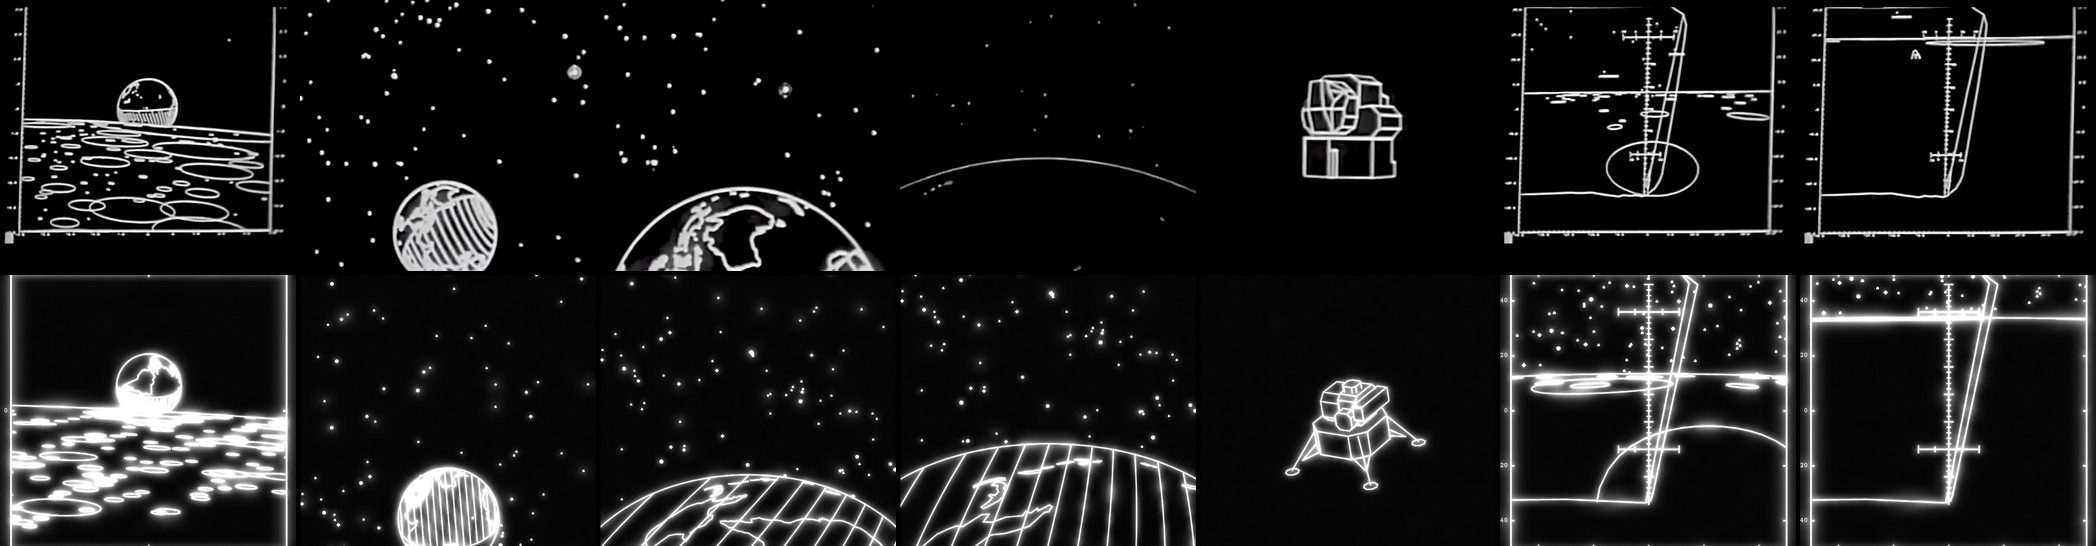
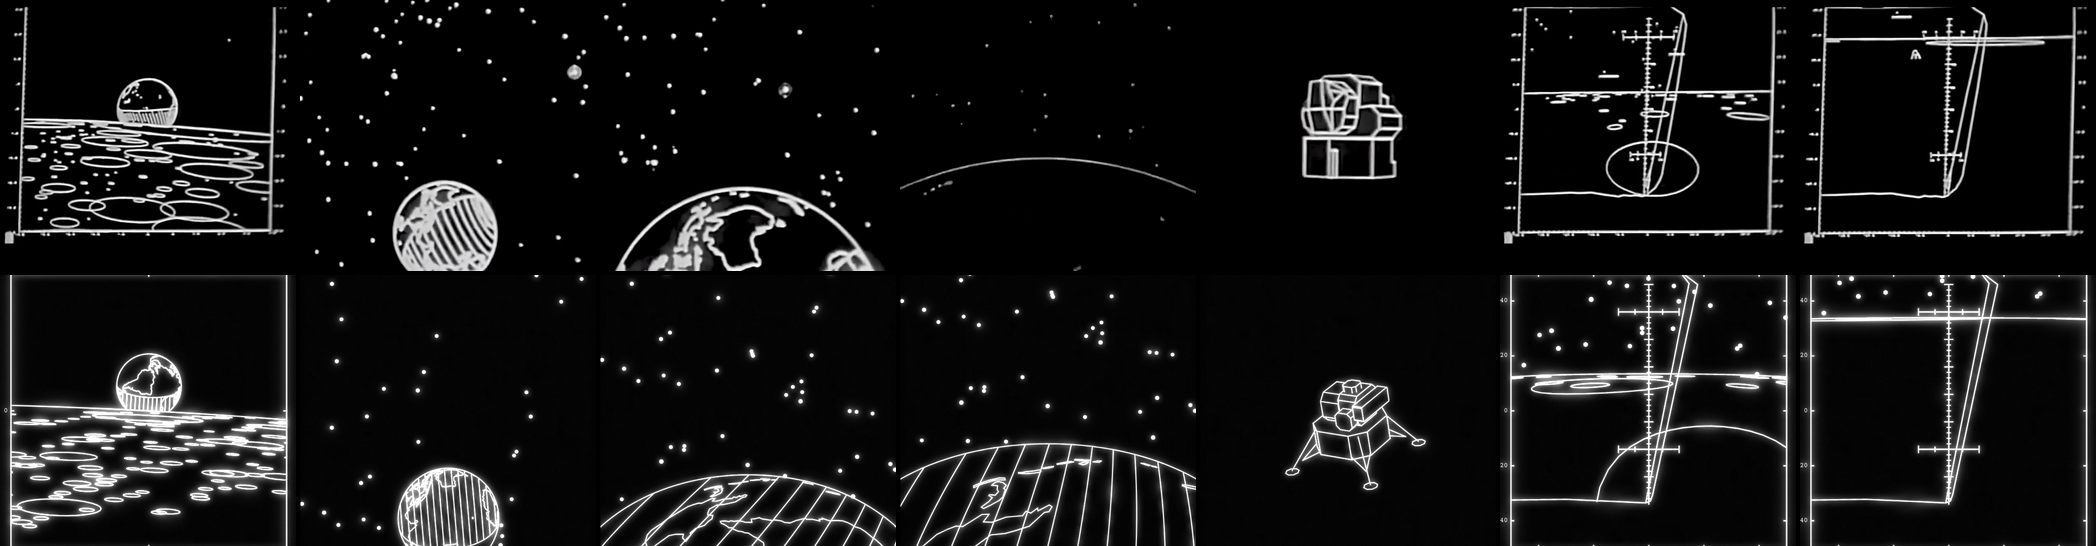
Star catalogs per TN D-6853, softer bloom, updated comparison sheet
TN D-6853 p.12: the more often used 391-star navigation catalog drew
stars as asterisks, with the 37 prime stars named; the 1078-star catalog
drew dots. The page now defaults to a 391-star catalog (C toggles the
full V 4.5 set as dots). Bloom is about 35% weaker, and the film
comparison sheet is regenerated.

diff --git a/web/page.template.html b/web/page.template.html
@@ -83,12 +83,13 @@ body.still { padding:0; }
     <button id="bhid">Hidden lines</button>
     <button id="bjit" title="J">Film jitter</button>
     <button id="bblm" title="B">Bloom</button>
+    <button id="bcat" title="C">Catalog</button>
     <button id="bsrc">Fortran listing</button>
   </div>
   <div class="grp"><span class="lbl">g.e.t.</span><input id="geti" type="text" size="9" value="0:00:00" aria-label="ground elapsed time h:mm:ss"><input id="scrub" type="range" min="-7200" max="7200" step="1" value="0"></div>
   <div class="grp"><span class="lbl">Jump (Live)</span><button id="jundock">Undocking 100:12:00</button><button id="jdesc">Descent 102:42:00</button></div>
 </div>
-<div id="hint">Drag: look around. Wheel / pinch: field of view. Arrows: yaw, pitch. Q/E: roll. +/-: field of view. Space: pause. [ ]: speed. R: reset. 1-5: scene. J: film jitter. B: bloom. Any input leaves Attract or Tour.</div>
+<div id="hint">Drag: look around. Wheel / pinch: field of view. Arrows: yaw, pitch. Q/E: roll. +/-: field of view. Space: pause. [ ]: speed. R: reset. 1-5: scene. J: film jitter. B: bloom. C: star catalog. Any input leaves Attract or Tour.</div>
 <div id="about">G. B. Roush, Computation and Analysis Division, MSC, is credited with developing the major analytical tool (MSC IN 69-FM-197). Sources: NASA TN D-6853 (Hyle and Lunde, 1972); MSC IN 69-FM-197.</div>
 <div id="err"></div>
 
@@ -295,13 +296,16 @@ const cv = document.getElementById("cv"), mctx = cv.getContext("2d");
 const mk = () => document.createElement("canvas");
 const off = mk(), bl1 = mk(), bl2 = mk(), ctx = off.getContext("2d"), b1c = bl1.getContext("2d"), b2c = bl2.getContext("2d");
 // Nostalgia toggles: null = automatic (on in Attract/Tour), true/false = the viewer's choice (remembered).
-const prefs = { jitter: null, bloom: null };
+const prefs = { jitter: null, bloom: null, catalog: "nav" };
+const NAV_MAG = Number("__NAV_MAG__") || 3.8;   // magnitude limit passing the 391 brightest stars (from data/stars.6.json)
 try { Object.assign(prefs, JSON.parse(localStorage.getItem("view1108.prefs") || "{}")); } catch (e) { /* storage unavailable */ }
 const savePrefs = () => { try { localStorage.setItem("view1108.prefs", JSON.stringify(prefs)); } catch (e) { /* ignore */ } };
 const auto = () => mode === "attract" || mode === "tour";
 const urlFlag = k => { const m = new RegExp("[?&]" + k + "=([01])").exec(location.search); return m ? m[1] === "1" : null; };   // ?jitter=0|1, ?bloom=0|1 override for captures
 const effJit = () => urlFlag("jitter") !== null ? urlFlag("jitter") : prefs.jitter !== null ? prefs.jitter : auto();
 const effBloom = () => urlFlag("bloom") !== null ? urlFlag("bloom") : prefs.bloom !== null ? prefs.bloom : auto();
+const effCatalog = () => prefs.catalog === "full" ? "full" : "nav";
+const toggleCatalog = () => { prefs.catalog = effCatalog() === "full" ? "nav" : "full"; savePrefs(); syncUI(); };
 const toggle = k => { prefs[k] = !(k === "jitter" ? effJit() : effBloom()); savePrefs(); syncUI(); };
 
 function readDefaults() {
@@ -374,37 +378,45 @@ function draw(now) {
     const p = V[i + 4] === 2 ? dash : solid;
     p.moveTo(cx + V[i] * k, cy - V[i + 1] * k); p.lineTo(cx + V[i + 2] * k, cy - V[i + 3] * k);
   }
-  // Stars. Conjecture: VIEW drew each star as a small symbol sized by magnitude, which the CRT-to-film
-  // process blurred into the round dots seen on the film; cf. TN D-6853 p.12 (stars beyond the 37 named
-  // ones "are represented by asterisks"). Here a polar asterisk: spokes from the centre out to the radius
-  // and back, N spokes (3 faint to 8 bright), radius 1x faint to 4x bright. Same strokes as the vectors,
-  // so bloom turns them into soft dots.
-  // Spokes: mag <= 1: 8, <= 2.5: 6, <= 3.5: 4, fainter 3. Spoke length spans 1x to 1.8x (magnitude 4.5 to -1).
-  const rF = Math.max(1.4, W * 0.0026) * (effBloom() ? 1 : 1.8), starP = new Path2D();
+  // Stars. TN D-6853 p.12: "The user has the option of using two star catalogs. The one more often used
+  // consists of the 391 stars used by the Apollo crewmen for navigational sightings. The first 37 stars are
+  // the prime Apollo navigational stars and are identified by name on the microfilm. The remaining stars
+  // are represented by asterisks. The other catalog contains 1078 star listings, ranging in visual
+  // magnitude to 4.5. None of these stars is identified by name, but all appear as dots on the microfilm."
+  // NAV: the 391-star navigation catalog approximated as the 391 brightest of ours (NAV_MAG, computed from
+  // data/stars.6.json by tools/assemble.py); drawn as asterisks. FULL: everything, drawn as dots.
+  // Our conjecture: the spoke count and length by magnitude (6 to 8 spokes, length 1x to 1.6x), and that
+  // the film's round soft dots are these symbols blurred by the CRT-to-film process.
+  const bloomOn = effBloom(), fullCat = effCatalog() === "full";
+  const rF = Math.max(0.8, W * 0.0026), starP = new Path2D(), hubP = new Path2D(), stW = Math.max(2.4, W * 0.0078);
   for (let i = 0; i < ns * 3; i += 3) {
-    const m = S[i + 2], t = Math.max(0, Math.min(1, (4.5 - m) / 5.5)), r = rF * (1 + 0.8 * t);
-    const n = m <= 1 ? 8 : m <= 2.5 ? 6 : m <= 3.5 ? 4 : 3, rr = n === 3 && effBloom() ? r * 0.55 : r;
+    const m = S[i + 2];
+    if (!fullCat && m > NAV_MAG) continue;
+    const t = Math.max(0, Math.min(1, (4.5 - m) / 5.5)), r = rF * (1 + 0.6 * t);
     const x = cx + S[i] * k, y = cy - S[i + 1] * k;
+    if (fullCat) { starP.moveTo(x, y); starP.lineTo(x + 0.01, y); if (!bloomOn) starP.lineTo(x + r * 0.5, y); continue; }
+    const n = m <= 2 ? 8 : 6, rr = bloomOn ? r : r * 2.5;   // PRECISE draws longer spokes so the asterisk shows
+    if (bloomOn) { hubP.moveTo(x + stW * 0.5, y); hubP.arc(x, y, stW * 0.5, 0, 6.2832); }
     for (let a = 0; a < n; a++) { const th = Math.PI * 2 * a / n - Math.PI / 2; starP.moveTo(x, y); starP.lineTo(x + rr * Math.cos(th), y + rr * Math.sin(th)); }
   }
-  const bloomOn = effBloom();
   const lw = Math.max(1, W / 420) * (bloomOn ? 1.4 : 1);
-  for (const [w, a] of bloomOn ? [[lw * 3.4, 0.10 * flick], [lw * 1.7, 0.22 * flick], [lw, 0.98 * flick]] : [[lw * 3.2, 0.10 * flick], [lw, 0.95 * flick]]) {
+  for (const [w, a] of bloomOn ? [[lw * 3.4, 0.06 * flick], [lw * 1.7, 0.14 * flick], [lw, 0.98 * flick]] : [[lw * 3.2, 0.10 * flick], [lw, 0.95 * flick]]) {
     ctx.strokeStyle = `rgba(255,255,255,${a})`; ctx.lineWidth = w;
     ctx.setLineDash([]); ctx.stroke(solid);
     ctx.setLineDash([lw * 5, lw * 4]); ctx.stroke(dash);
   }
-  // star asterisks: thin as drawn in PRECISE; in BLOOM fat round-capped strokes so the spokes merge into a round dot
-  ctx.setLineDash([]);
-  if (bloomOn) { ctx.strokeStyle = `rgba(255,255,255,${0.06 * flick})`; ctx.lineWidth = Math.max(3, W * 0.009); ctx.stroke(starP); }
-  ctx.strokeStyle = `rgba(255,255,255,${(bloomOn ? 0.85 : 0.98) * flick})`; ctx.lineWidth = bloomOn ? Math.max(3.4, W * 0.0060) : lw; ctx.stroke(starP);
+  // stars: thin as drawn in PRECISE; in BLOOM round-capped strokes plus a hub so they read as small round dots
+  ctx.setLineDash([]); ctx.lineCap = "round";
+  if (bloomOn) { ctx.strokeStyle = `rgba(255,255,255,${0.05 * flick})`; ctx.lineWidth = stW * 2; ctx.stroke(starP); }
+  ctx.strokeStyle = `rgba(255,255,255,${(bloomOn ? 0.85 : 0.98) * flick})`; ctx.lineWidth = bloomOn ? stW : Math.max(1, lw); ctx.stroke(starP);
+  if (bloomOn) { ctx.fillStyle = `rgba(255,255,255,${0.85 * flick})`; ctx.fill(hubP); }
   // labels
   if (fl & 1) {
     ctx.font = `${fs * 0.95}px "Courier Prime","Courier New",monospace`; ctx.textAlign = "left"; ctx.textBaseline = "middle";
     ctx.fillStyle = "#ddd";
     for (let i = 0; i < nl * 4; i += 4) {
       const kind = L[i + 2] | 0, id = L[i + 3] | 0;
-      let t = kind === 1 ? NAMES.NAV[id - 1] : kind === 2 ? NAMES.CRATER[id - 1] : kind === 3 ? "SUN" : kind === 4 ? "EARTH" : kind === 5 ? "MOON" : "";
+      let t = kind === 1 ? (effCatalog() === "full" ? "" : NAMES.NAV[id - 1]) : kind === 2 ? NAMES.CRATER[id - 1] : kind === 3 ? "SUN" : kind === 4 ? "EARTH" : kind === 5 ? "MOON" : "";
       if (!t) continue;
       const x = cx + L[i] * k, y = cy - L[i + 1] * k;
       if (x < b.x || x > b.x + b.s || y < b.y || y > b.y + b.s) continue;
@@ -470,10 +482,10 @@ function present(now, bloomOn) {
   mctx.translate(w / 2 + jx * w, h / 2 + jy * w); mctx.rotate(jr); mctx.translate(-w / 2, -h / 2);
   mctx.globalAlpha = jb; mctx.drawImage(off, 0, 0);
   if (bloomOn) {
-    b1c.clearRect(0, 0, bl1.width, bl1.height); b1c.filter = "blur(1.6px) brightness(1.3)"; b1c.drawImage(off, 0, 0, bl1.width, bl1.height);
-    b2c.clearRect(0, 0, bl2.width, bl2.height); b2c.filter = "blur(1px) brightness(1.8)"; b2c.drawImage(off, 0, 0, bl2.width, bl2.height);
+    b1c.clearRect(0, 0, bl1.width, bl1.height); b1c.filter = "blur(1.6px) brightness(0.85)"; b1c.drawImage(off, 0, 0, bl1.width, bl1.height);
+    b2c.clearRect(0, 0, bl2.width, bl2.height); b2c.filter = "blur(1px) brightness(1.15)"; b2c.drawImage(off, 0, 0, bl2.width, bl2.height);
     mctx.globalCompositeOperation = "lighter"; mctx.imageSmoothingQuality = "high";
-    mctx.drawImage(bl1, 0, 0, w, h); mctx.globalAlpha = jb * 0.45; mctx.drawImage(bl2, 0, 0, w, h);
+    mctx.drawImage(bl1, 0, 0, w, h); mctx.globalAlpha = jb * 0.32; mctx.drawImage(bl2, 0, 0, w, h);
   }
   mctx.restore();
 }
@@ -496,7 +508,7 @@ function step(now) {
 let lastStatus = "";
 function updateStatus() {
   const rate = mode === "live" ? LIVE_RATES[liveIdx] + "X" : mode === "free" ? (playing ? SPEEDS[speedIdx] + "X" : "HOLD") : "AUTO";
-  const t = `MODE ${mode}  G.E.T. ${getStr(get)}  ${rate}  BLOOM ${effBloom() ? "ON" : "OFF"}  JITTER ${effJit() ? "ON" : "OFF"}`;
+  const t = `MODE ${mode}  G.E.T. ${getStr(get)}  ${rate}  BLOOM ${effBloom() ? "ON" : "OFF"}  JITTER ${effJit() ? "ON" : "OFF"}  STARS ${effCatalog().toUpperCase()}`;
   if (t !== lastStatus) { lastStatus = t; document.getElementById("status").textContent = t; }
 }
 function tick(now) { step(now); requestAnimationFrame(tick); }
@@ -510,6 +522,7 @@ function syncUI() {
   document.getElementById("bhid").classList.toggle("on", hidden);
   document.getElementById("bjit").classList.toggle("on", effJit());
   document.getElementById("bblm").classList.toggle("on", effBloom());
+  document.getElementById("bcat").textContent = "Catalog " + (effCatalog() === "full" ? "full 921" : "nav 391");
   document.getElementById("blab").classList.toggle("on", labels);
   document.getElementById("bfrm").classList.toggle("on", frame);
 }
@@ -522,6 +535,7 @@ const parseGet = t => { const m = t.trim().split(":").map(Number); if (m.some(is
 $("geti").onchange = e => { const g = parseGet(e.target.value); if (g === null) return; leaveAttract(); livePin = null; get = mode === "live" ? Math.max(LIVE_MIN, Math.min(LIVE_MAX, g)) : g; e.target.blur(); };
 $("bjit").onclick = () => toggle("jitter");
 $("bblm").onclick = () => toggle("bloom");
+$("bcat").onclick = toggleCatalog;
 $("bhid").onclick = () => { leaveAttract(); hidden = !hidden; syncUI(); };
 $("bplay").onclick = () => { leaveAttract(); playing = !playing; syncUI(); };
 $("bslow").onclick = () => { leaveAttract(); bump(-1); };
@@ -554,6 +568,7 @@ window.addEventListener("keydown", e => {
   const d = fov * 0.05, k = e.key;
   if (k === "j" || k === "J") { toggle("jitter"); e.preventDefault(); return; }
   if (k === "b" || k === "B") { toggle("bloom"); e.preventDefault(); return; }
+  if (k === "c" || k === "C") { toggleCatalog(); e.preventDefault(); return; }
   if (k.length === 1 || k.startsWith("Arrow")) leaveAttract();
   let h = true;
   if (k === "ArrowLeft") yaw -= d; else if (k === "ArrowRight") yaw += d;

diff --git a/tools/assemble.py b/tools/assemble.py
@@ -20,6 +20,17 @@ missing = [f"  {k}: {p.relative_to(R)}" for k, p in INPUTS.items() if not p.is_f
 if missing:
     sys.exit("assemble.py: missing inputs (run tools/build.sh first):\n" + "\n".join(missing))
 
+def nav_mag():
+    """Magnitude of the 391st brightest star in data/stars.6.json: the limit for the approximated
+    391-star navigation catalog (TN D-6853 p.12)."""
+    import json
+    f = R / "data/stars.6.json"
+    if not f.is_file():
+        return "3.8"
+    mags = sorted(x["properties"]["mag"] for x in json.loads(f.read_text())["features"])
+    return "%.2f" % mags[390]
+
+
 t = INPUTS["template"].read_text()
 # Function replacements so '\' and '&' in payloads are never interpreted.
 subs = {
@@ -27,6 +38,7 @@ subs = {
     "__FALLBACK_JS__": INPUTS["fallback"].read_text().replace("</script", "<\\/script"),
     "__NAMES_JS__": INPUTS["names"].read_text().replace("</script", "<\\/script"),
     "__FONT_3270_B64__": base64.b64encode(INPUTS["font"].read_bytes()).decode(),
+    "__NAV_MAG__": nav_mag(),
     "__WASM_B64__": base64.b64encode(INPUTS["wasm"].read_bytes()).decode(),
 }
 # Replace only the payload slots, not the dev-guard `var __FALLBACK_JS__, __NAMES_JS__;` line.
